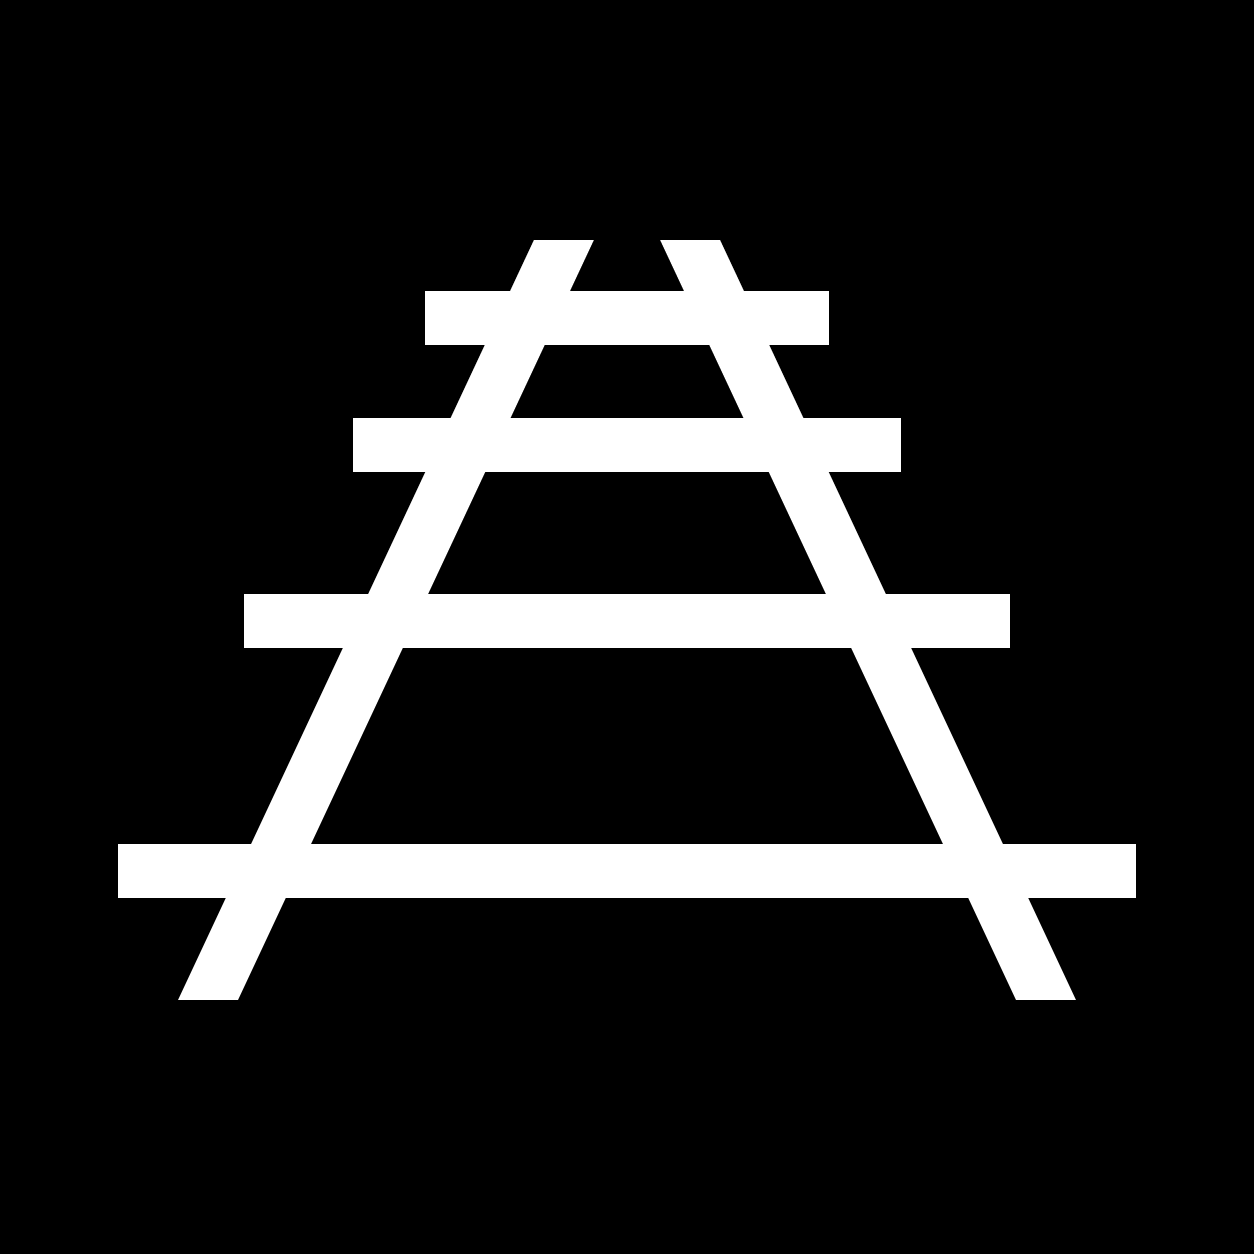
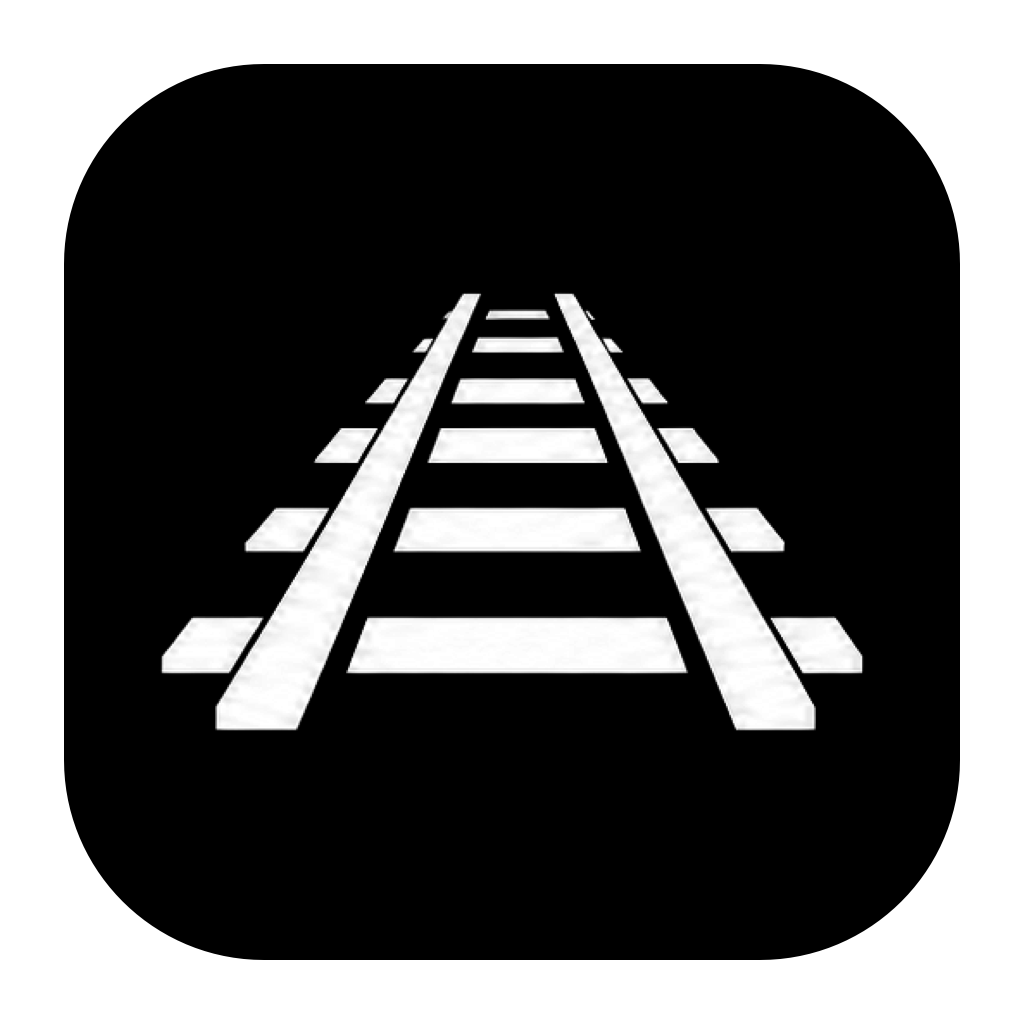
Use README railway artwork across macOS app branding

diff --git a/scripts/RenderRielaBrandAssets.swift b/scripts/RenderRielaBrandAssets.swift
@@ -1,0 +1,32 @@
+import AppKit
+
+/// Invoked by render-riela-brand-assets.sh to keep all app surfaces in sync.
+@main
+@MainActor
+enum RenderRielaBrandAssets {
+  static func main() throws {
+    let root = URL(fileURLWithPath: CommandLine.arguments[1], isDirectory: true)
+    let logo = root.appendingPathComponent("img/riela.png")
+    guard let rail = RielaBrandImage.rail(from: logo) else { throw CocoaError(.fileReadCorruptFile) }
+    let icon = RielaBrandImage.appIcon(rail: rail)
+    try save(rail, to: root.appendingPathComponent("web/public/riela-rail.png"))
+    try save(icon, to: root.appendingPathComponent("img/riela_icon.png"))
+    try save(icon, to: root.appendingPathComponent("web/src-tauri/icons/icon.png"))
+    let bundledLogo = root.appendingPathComponent("Sources/RielaApp/Resources/RielaLogo.png")
+    try Data(contentsOf: logo).write(to: bundledLogo, options: .atomic)
+  }
+
+  private static func save(_ image: NSImage, to url: URL) throws {
+    guard let bitmap = NSBitmapImageRep(bitmapDataPlanes: nil, pixelsWide: Int(image.size.width),
+      pixelsHigh: Int(image.size.height), bitsPerSample: 8, samplesPerPixel: 4, hasAlpha: true,
+      isPlanar: false, colorSpaceName: .deviceRGB, bytesPerRow: 0, bitsPerPixel: 0),
+      let context = NSGraphicsContext(bitmapImageRep: bitmap) else { throw CocoaError(.fileWriteUnknown) }
+    NSGraphicsContext.saveGraphicsState()
+    NSGraphicsContext.current = context
+    context.cgContext.clear(CGRect(origin: .zero, size: image.size))
+    image.draw(in: NSRect(origin: .zero, size: image.size))
+    NSGraphicsContext.restoreGraphicsState()
+    guard let data = bitmap.representation(using: .png, properties: [:]) else { throw CocoaError(.fileWriteUnknown) }
+    try data.write(to: url, options: .atomic)
+  }
+}

diff --git a/Sources/RielaApp/DaemonWorkflowWindowController+SettingsShell.swift b/Sources/RielaApp/DaemonWorkflowWindowController+SettingsShell.swift
@@ -331,8 +331,17 @@ extension DaemonWorkflowWindowController {
     let appTitle = NSTextField(labelWithString: "Riela")
     appTitle.font = .systemFont(ofSize: 20, weight: .bold)
     appTitle.alignment = .left
+    let brandImage = NSImageView(image: RielaAppIcon.railTemplateImage(size: NSSize(width: 36, height: 23)))
+    brandImage.contentTintColor = .labelColor
+    brandImage.setAccessibilityElement(false)
+    let brandHeader = NSStackView(views: [brandImage, appTitle])
+    brandHeader.orientation = .horizontal
+    brandHeader.alignment = .centerY
+    brandHeader.spacing = 10
+    brandImage.widthAnchor.constraint(equalToConstant: 36).isActive = true
+    brandImage.heightAnchor.constraint(equalToConstant: 23).isActive = true
     let menuStack = NSStackView(views: [
-      appTitle,
+      brandHeader,
       sidebarInstancesButton,
       sidebarMarketplaceButton,
       sidebarAssistantButton,
@@ -350,7 +359,7 @@ extension DaemonWorkflowWindowController {
       menuStack.topAnchor.constraint(equalTo: container.topAnchor, constant: 56),
       menuStack.leadingAnchor.constraint(equalTo: container.leadingAnchor, constant: 28),
       menuStack.trailingAnchor.constraint(equalTo: container.trailingAnchor, constant: -24),
-      appTitle.widthAnchor.constraint(equalTo: menuStack.widthAnchor),
+      brandHeader.widthAnchor.constraint(equalTo: menuStack.widthAnchor),
       sidebarInstancesButton.widthAnchor.constraint(equalTo: menuStack.widthAnchor),
       sidebarMarketplaceButton.widthAnchor.constraint(equalTo: menuStack.widthAnchor),
       sidebarAssistantButton.widthAnchor.constraint(equalTo: menuStack.widthAnchor),

diff --git a/Sources/RielaApp/RielaAppIcon.swift b/Sources/RielaApp/RielaAppIcon.swift
@@ -1,35 +1,25 @@
 #if os(macOS)
 import AppKit
 
+@MainActor
 enum RielaAppIcon {
-  static func railTemplateImage() -> NSImage {
-    let size = NSSize(width: 18, height: 18)
-    let image = NSImage(size: size)
-    image.lockFocus()
-
-    NSColor.black.setStroke()
-    // Converging rails keep the silhouette recognizable at menu-bar size.
-    let rails = NSBezierPath()
-    rails.lineWidth = 1.8
-    rails.lineCapStyle = .square
-    rails.move(to: NSPoint(x: 4, y: 2.5))
-    rails.line(to: NSPoint(x: 7, y: 15.5))
-    rails.move(to: NSPoint(x: 14, y: 2.5))
-    rails.line(to: NSPoint(x: 11, y: 15.5))
-    rails.stroke()
-
-    NSColor.black.setFill()
-    for sleeper in [
-      NSRect(x: 2.5, y: 4, width: 13, height: 1.5),
-      NSRect(x: 3.5, y: 8, width: 11, height: 1.5),
-      NSRect(x: 4.5, y: 12, width: 9, height: 1.5)
-    ] {
-      NSBezierPath(rect: sleeper).fill()
+  private static let rail: NSImage = {
+    guard let url = Bundle.module.url(forResource: "RielaLogo", withExtension: "png"),
+      let image = RielaBrandImage.rail(from: url) else {
+      preconditionFailure("Missing bundled Riela logo")
     }
+    return image
+  }()
 
-    image.unlockFocus()
+  static func railTemplateImage(size: NSSize = NSSize(width: 22, height: 14)) -> NSImage {
+    guard let image = rail.copy() as? NSImage else { preconditionFailure("Cannot copy Riela rail image") }
+    image.size = size
     image.isTemplate = true
     return image
+  }
+
+  static func appIcon() -> NSImage {
+    RielaBrandImage.appIcon(rail: rail)
   }
 }
 #endif

diff --git a/Tests/RielaAppSupportTests/RielaAppBrandingTests.swift b/Tests/RielaAppSupportTests/RielaAppBrandingTests.swift
@@ -1,0 +1,29 @@
+#if os(macOS)
+import AppKit
+import XCTest
+@testable import RielaApp
+
+@MainActor
+final class RielaAppBrandingTests: XCTestCase {
+  func testBundledLogoProducesIndependentTemplateImages() throws {
+    let menu = RielaAppIcon.railTemplateImage()
+    let header = RielaAppIcon.railTemplateImage(size: NSSize(width: 36, height: 23))
+    XCTAssertTrue(menu.isTemplate)
+    XCTAssertTrue(header.isTemplate)
+    XCTAssertEqual(menu.size, NSSize(width: 22, height: 14))
+    XCTAssertEqual(header.size, NSSize(width: 36, height: 23))
+    let bitmap = NSBitmapImageRep(cgImage: try XCTUnwrap(menu.cgImage(forProposedRect: nil, context: nil, hints: nil)))
+    XCTAssertTrue(bitmap.hasAlpha, "Menu bar background must remain transparent in both appearances")
+    XCTAssertLessThan(try XCTUnwrap(bitmap.colorAt(x: 0, y: 0)).alphaComponent, 0.01)
+  }
+
+  func testApplicationIconHasSquareCanvasAndTransparentCorners() throws {
+    let icon = RielaAppIcon.appIcon()
+    XCTAssertFalse(icon.isTemplate)
+    XCTAssertEqual(icon.size, NSSize(width: 1024, height: 1024))
+    let bitmap = NSBitmapImageRep(cgImage: try XCTUnwrap(icon.cgImage(forProposedRect: nil, context: nil, hints: nil)))
+    XCTAssertLessThan(try XCTUnwrap(bitmap.colorAt(x: 0, y: 0)).alphaComponent, 0.01)
+    XCTAssertGreaterThan(try XCTUnwrap(bitmap.colorAt(x: bitmap.pixelsWide / 2, y: bitmap.pixelsHigh / 2)).alphaComponent, 0.99)
+  }
+}
+#endif

diff --git a/Sources/RielaApp/RielaBrandImage.swift b/Sources/RielaApp/RielaBrandImage.swift
@@ -1,0 +1,31 @@
+#if os(macOS)
+import AppKit
+import CoreImage
+import ImageIO
+
+/// Use the README artwork itself, preserving its rails, sleepers and perspective.
+@MainActor
+enum RielaBrandImage {
+  static func rail(from logoURL: URL) -> NSImage? {
+    guard let source = CGImageSourceCreateWithURL(logoURL as CFURL, nil),
+      let logo = CGImageSourceCreateImageAtIndex(source, 0, nil),
+      let crop = logo.cropping(to: CGRect(x: 410, y: 258, width: 422, height: 267)) else { return nil }
+    let mask = CIImage(cgImage: crop)
+      .applyingFilter("CIColorControls", parameters: ["inputContrast": 1.05, "inputBrightness": -0.025])
+      .applyingFilter("CIMaskToAlpha")
+    guard let image = CIContext().createCGImage(mask, from: mask.extent) else { return nil }
+    return NSImage(cgImage: image, size: NSSize(width: 422, height: 267))
+  }
+
+  static func appIcon(rail: NSImage) -> NSImage {
+    NSImage(size: NSSize(width: 1024, height: 1024), flipped: false) { _ in
+      NSColor.black.setFill()
+      NSBezierPath(roundedRect: NSRect(x: 64, y: 64, width: 896, height: 896), xRadius: 200, yRadius: 200).fill()
+      let width: CGFloat = 728
+      let height = width * rail.size.height / rail.size.width
+      rail.draw(in: NSRect(x: (1024 - width) / 2, y: (1024 - height) / 2, width: width, height: height))
+      return true
+    }
+  }
+}
+#endif

diff --git a/web/src/components/RailIcon.tsx b/web/src/components/RailIcon.tsx
@@ -1,10 +1,4 @@
-/** Matches Riela's existing app and favicon rail silhouette. */
+/** The railway mark extracted from the README logo, shared with the native app. */
 export function RailIcon() {
-  return <svg viewBox="0 0 64 64" width="28" height="28" fill="currentColor" aria-hidden="true">
-    <path d="M25.5 8h5L10 60H5ZM33.5 8h5L59 60h-5Z" />
-    <rect x="20" y="13" width="24" height="4" />
-    <rect x="17" y="21" width="30" height="4" />
-    <rect x="12" y="34" width="40" height="4" />
-    <rect x="5" y="52" width="54" height="5" />
-  </svg>
+  return <img src="/riela-rail.png" width="28" height="18" alt="" aria-hidden="true" />
 }

diff --git a/web/src/monochrome-theme.css b/web/src/monochrome-theme.css
@@ -43,7 +43,7 @@ body { color: var(--ink); background: #000000; }
 .dot { background: #737373; box-shadow: 0 0 0 4px rgb(115 115 115 / 14%); }
 .header-profile { flex: none; margin-left: auto; color: #d4d4d4; }
 
-.brand-mark { border-color: #ffffff; color: #000000; background: #ffffff; box-shadow: none; }
+.brand-mark { border-color: #303030; color: #ffffff; background: #000000; box-shadow: none; }
 .brand strong, .topbar strong, .page-header h1, .section-title h2,
 .folder-pane-header h1, .note-detail h2, .ops-topline-title strong,
 .ops-detail-header h2, .ops-hub-title { color: #ffffff; }

diff --git a/Sources/RielaApp/EntryPoint.swift b/Sources/RielaApp/EntryPoint.swift
@@ -79,6 +79,7 @@ final class RielaApp: NSObject, NSApplicationDelegate {
   static func main() {
     let app = NSApplication.shared
     let delegate = RielaApp()
+    app.applicationIconImage = RielaAppIcon.appIcon()
     app.delegate = delegate
     app.setActivationPolicy(.accessory)
     app.run()

diff --git a/Package.swift b/Package.swift
@@ -294,6 +294,7 @@ let package = Package(
         "RielaObservability",
         "RielaWorkflowRegistry"
       ],
+      resources: [.process("Resources")],
       linkerSettings: rielaInfoPlistLinkerSettings
     ),
     .testTarget(
